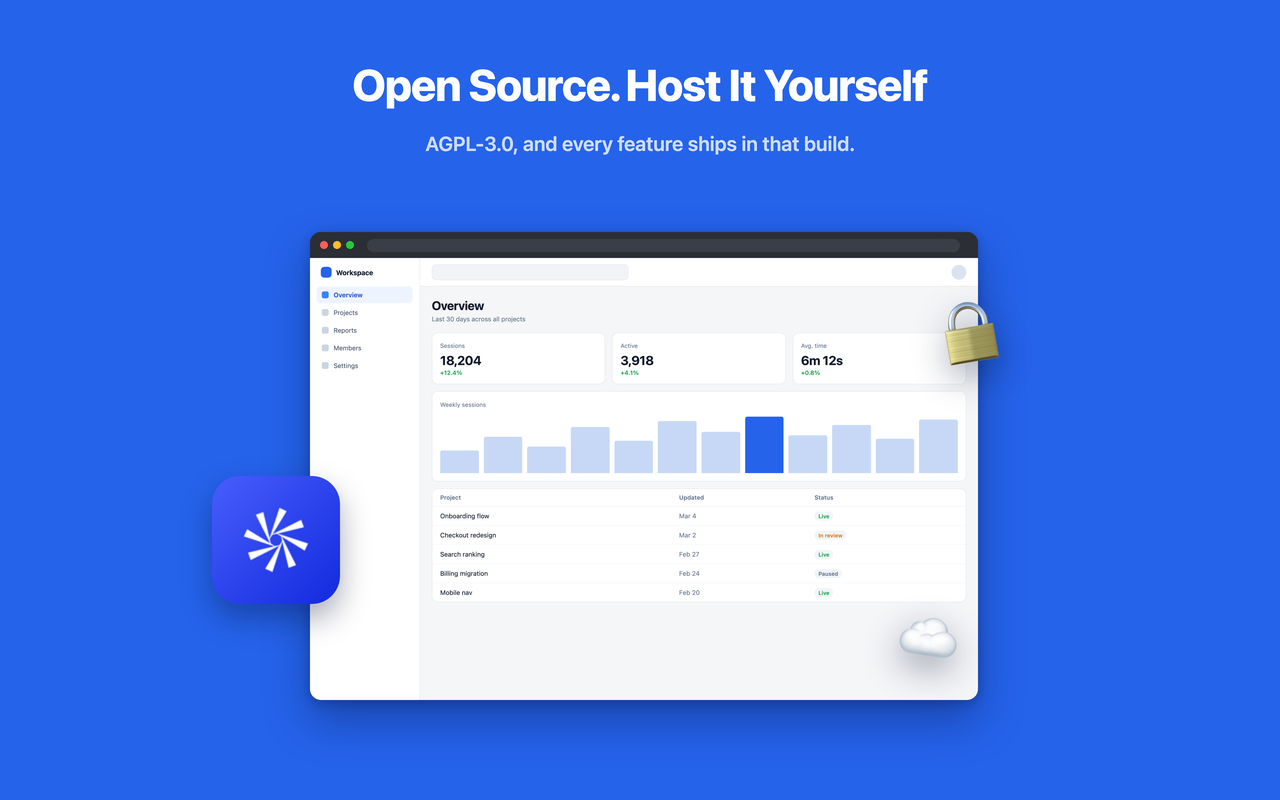
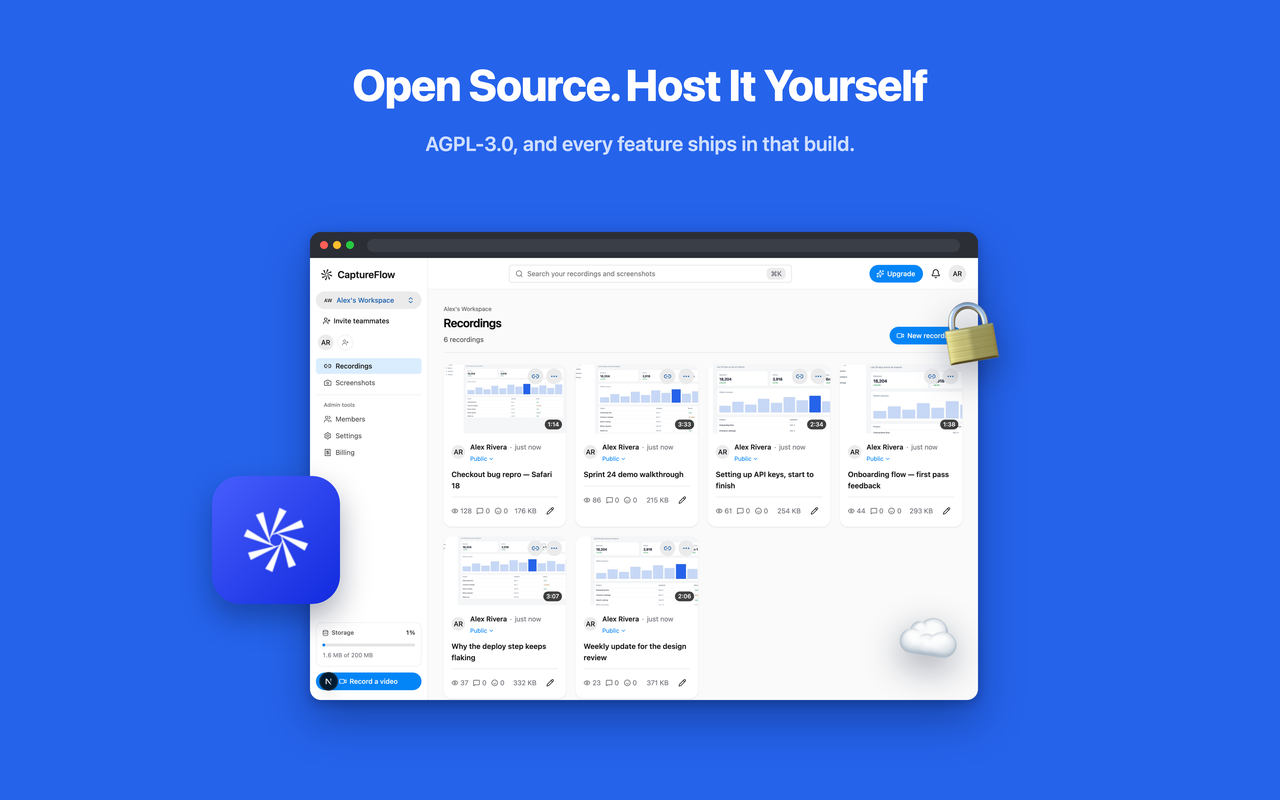
chore(extension): put the dashboard under the panel in the store tiles
The tiles used a neutral unbranded page on the reasoning that a listing is about
the recorder, so anything else under it competes for attention. That holds for a
stock page, but our own dashboard is not a distraction from the recorder — it is
where the link the recorder hands you ends up, so the tile now shows both halves
of what the extension does rather than one.

Same capture the README banner uses, so the listing and the repo lead with the
same picture. gen-readme-hero.py loses its override, since the store module's
page is now the one it wanted; the banner re-renders byte-identical.

Regenerated tiles: five screenshots and the marquee. The small promo tile is
untouched — it is glyph and type, with no window on it.

diff --git a/scripts/gen-store-assets.py b/scripts/gen-store-assets.py
@@ -8,7 +8,7 @@ drop shadows that turned into smudges on flat colour.
 
 The arrangement moves between tiles (panel right, panel left, panel low, window
 alone) so the set does not read as one template five times. The page under the
-panel is a neutral unbranded mock, not our own site.
+panel is our own dashboard — see cap-readme-dashboard.py, which shoots it.
 
 Rendered in headless Chrome at 2x so the type and the Apple Color Emoji stay
 crisp, then downsampled to the canvas the store wants.
@@ -30,7 +30,7 @@ REPO = pathlib.Path("/Users/ethos/code/personal/captureflow")
 ICON = REPO / "apps/extension/store/store-icon-128.png"
 
 BLUE = "#2563eb"
-PAGE = SHOTS / "page-mock.png"
+PAGE = SHOTS / "page-dashboard.png"
 PAGE_AR = 1360 / 900
 PV, PS, PP, PD = (
     SHOTS / "popup-video.png",

diff --git a/scripts/gen-readme-hero.py b/scripts/gen-readme-hero.py
@@ -27,12 +27,6 @@ _spec = importlib.util.spec_from_file_location(
 store = importlib.util.module_from_spec(_spec)
 _spec.loader.exec_module(store)
 
-# The store tiles put a neutral unbranded page under the panel, because a
-# listing is about the recorder and not about us. A README is about us, so this
-# one records the real dashboard. Light theme for the same reason the tiles use
-# a light page: the panel is dark and needs something to sit against.
-store.PAGE = store.SHOTS / "page-dashboard.png"
-
 W, H = 1440, 720
 EXPORT = (2160, 1080)
 

diff --git a/scripts/README.md b/scripts/README.md
@@ -103,12 +103,11 @@ cd scripts && python3 gen-readme-hero.py
 ```
 
 It is `gen-store-assets.py`'s first screenshot, re-laid-out — the module is
-imported rather than copied, so the blue, the CSS, and the window/panel markup
-have one definition. Three things differ: the canvas is 2:1 rather than 1.6:1,
-because a README hero sits in a ~1000px column; there is no headline on it,
-because the name and the tagline are already text directly above; and the page
-under the panel is our own dashboard rather than the store tiles' neutral mock,
-because a README is about us where a listing is about the recorder.
+imported rather than copied, so the blue, the CSS, the page under the panel, and
+the window/panel markup all have one definition. Two things differ: the canvas
+is 2:1 rather than 1.6:1, because a README hero sits in a ~1000px column, and
+there is no headline on it, because the name and the tagline are already text
+directly above.
 
 **Requirements:** `pip install pillow websocket-client`, headless Chrome, and
 the captures under `scripts/shots/` (see below).
@@ -116,9 +115,9 @@ the captures under `scripts/shots/` (see below).
 ## `cap-readme-dashboard.py` — photograph the dashboard for that banner
 
 Writes `shots/page-dashboard.png`, the signed-in `/recordings` page at 1360x900
-in light theme. Light because the panel that lands on top of it is dark and
-needs something to sit against, which is the same reason the store tiles put a
-light page under theirs.
+in light theme — the page under the panel in both the README banner and every
+Chrome Web Store tile. Light because the panel that lands on top of it is dark
+and needs something to sit against.
 
 It signs up its own account, seeds six recordings and their poster JPEGs, takes
 the shot, and deletes all of it again — so the banner does not depend on what
